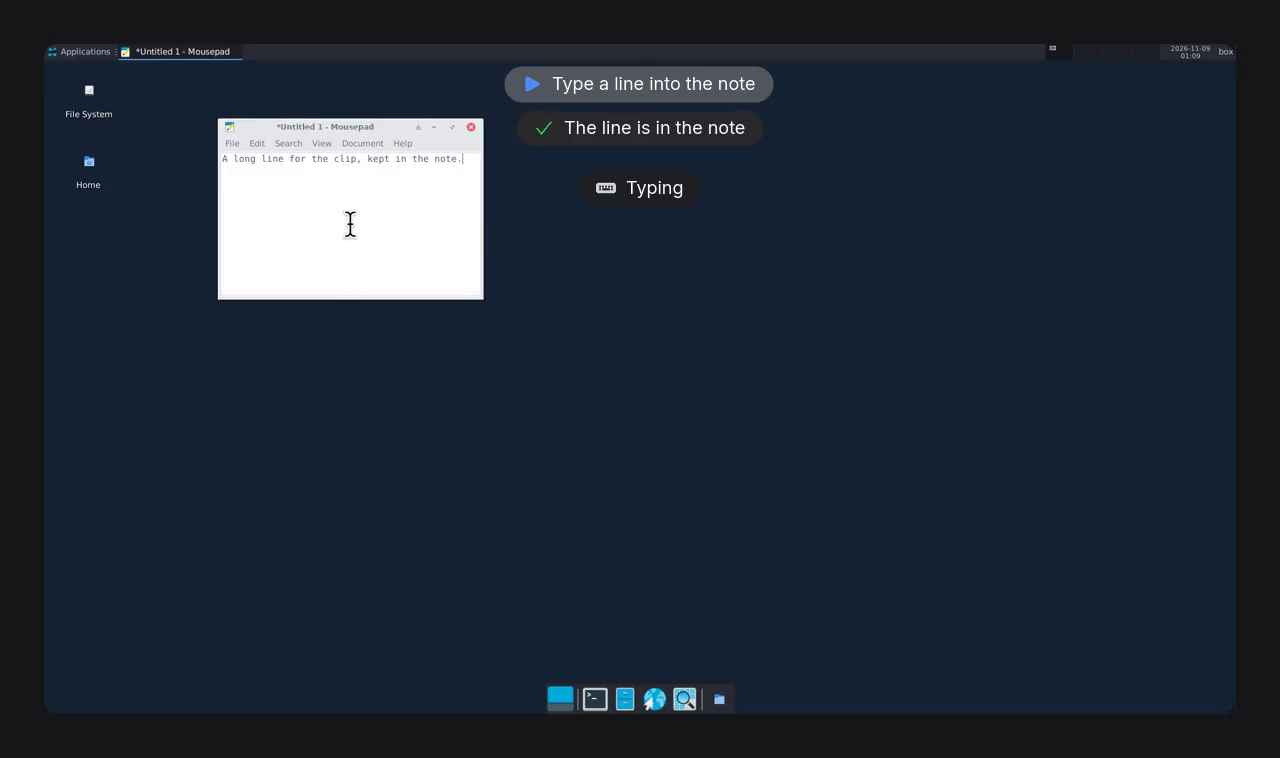
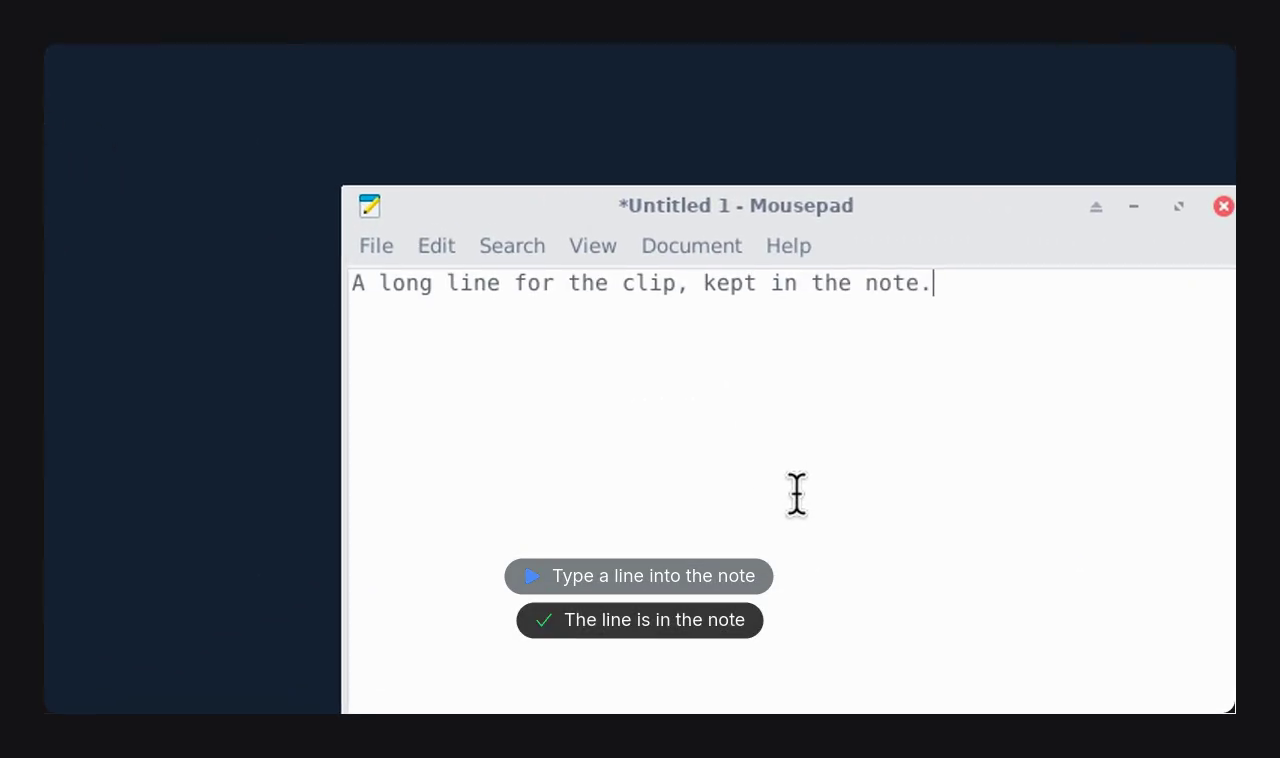
Show the tight edit in the recording guide's images, from the Linux showcase made by box_record.
The animated clip, the zoomed typing and the cancelled save are now frames
of a 21 s clip of an 11 s recording on a 1280 by 720 Docker desktop: idle
stretches cut, the typed line zoomed, captions clear of the Save As dialog
and a fade at the end. The pictures name only the box user.

diff --git a/docs/guide/recording.md b/docs/guide/recording.md
@@ -2,7 +2,7 @@
 
 An agent can record a desktop box, or the phone or tablet of a device box, while it works and show you the clip in the thread, rather than describe what it did. When it tests something, it captions each step and its result, so you can see what it checked and whether it passed.
 
-![A Linux desktop recording. It zooms onto a painted window named Ready, with a pointing hand and a click ring on the button. Mousepad shows the line "A long line for the clip, kept in the note.", an I-beam in the text area and a Typing pill. The line is selected with a Ctrl+A pill, a Save As dialog opens with a Ctrl+S pill, and cancelling it shows a warning. The window is widened with a resize cursor and dragged by the title with an open hand. The last check fails because the file is not on disk](../media/recording.webp)
+![A Linux desktop recording. It zooms onto a painted window named Ready, with a pointing hand and a click ring on the button. The camera eases out as Mousepad opens, and back in on the line "A long line for the clip, kept in the note." as it is typed. The line is selected with a Ctrl+A pill, a Save As dialog opens with a Ctrl+S pill and the captions below its name field, and cancelling it shows a warning. The window is widened with a resize cursor and dragged by the title with an open hand. The last check fails because the file is not on disk, and the clip fades out](../media/recording.webp)
 
 ## What a clip shows
 
@@ -25,7 +25,7 @@ A pill sits below the region it would cover, or above it when below does not fit
 
 On macOS and Windows, the computer-use driver draws its own pointer on the screen for each of the agent's actions. While the agent records, BB Box hides it, so the clip has the same pointer as on Linux, and shows it again at the stop, or after 5 minutes if the recording is never stopped. A driver too old to hide it keeps it, and BB Box then draws your pointer only once you move it. On a Wayland desktop, BB Box does not sample the pointer yet, so it draws no pointer of its own there. The rings, pills and zooms are drawn everywhere.
 
-![Mousepad showing the line "A long line for the clip, kept in the note.", with an I-beam in the middle of the text area, a Typing pill, the step "Type a line into the note" and the passed result "The line is in the note"](../media/recording-zoom.png)
+![Mousepad zoomed in on the line "A long line for the clip, kept in the note.", with an I-beam in the text area, the step "Type a line into the note" and the passed result "The line is in the note" below it](../media/recording-zoom.png)
 
 ### Zooms
 
@@ -50,7 +50,7 @@ A key pill starts with a keyboard mark, and a warning uses an amber one. The mar
 
 The step caption and its result stay until the next step starts. Each caption and pill fades in and out over a fifth of a second, so one step crossfades into the next. One moment has one caption: a warning and a result for the same moment show as one, and a cancel the step asked for is not shown as a failure. Each caption stays up long enough to read, even where idle stretches are cut or the clip plays faster. A step reads while it stays up, through its result. To give a result or a warning time to read, the clip holds it still for at most a second.
 
-![The step "Cancel the save" and a warning, "The save was cancelled", over Mousepad. The typed line stays selected](../media/recording-step.png)
+![The step "Cancel the save" and a warning, "The save was cancelled", under Mousepad. The typed line stays selected](../media/recording-step.png)
 
 The agent can put the captions at the bottom of the video instead, above the Dock or taskbar, with the step above its result. It does this when what it tests is near the top of the screen, such as a menu bar or a window's title. The marks then go to a top corner.
 
